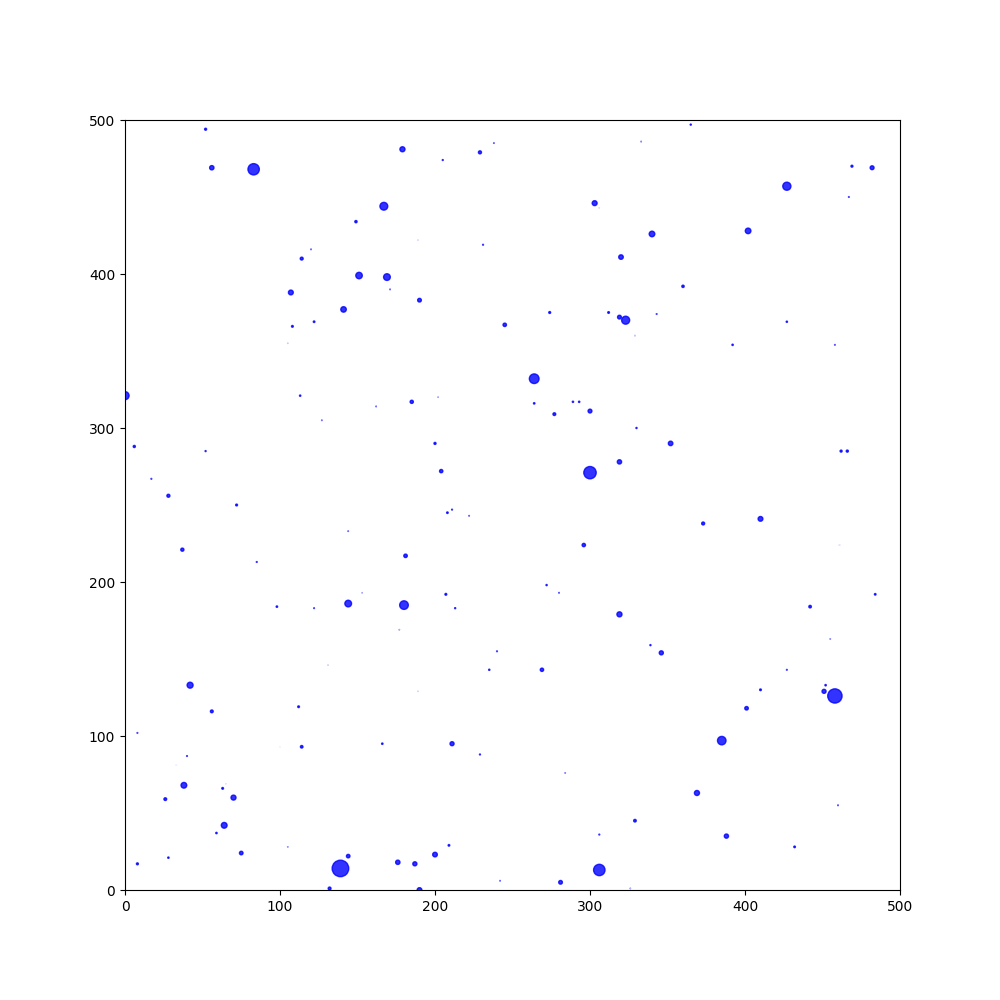
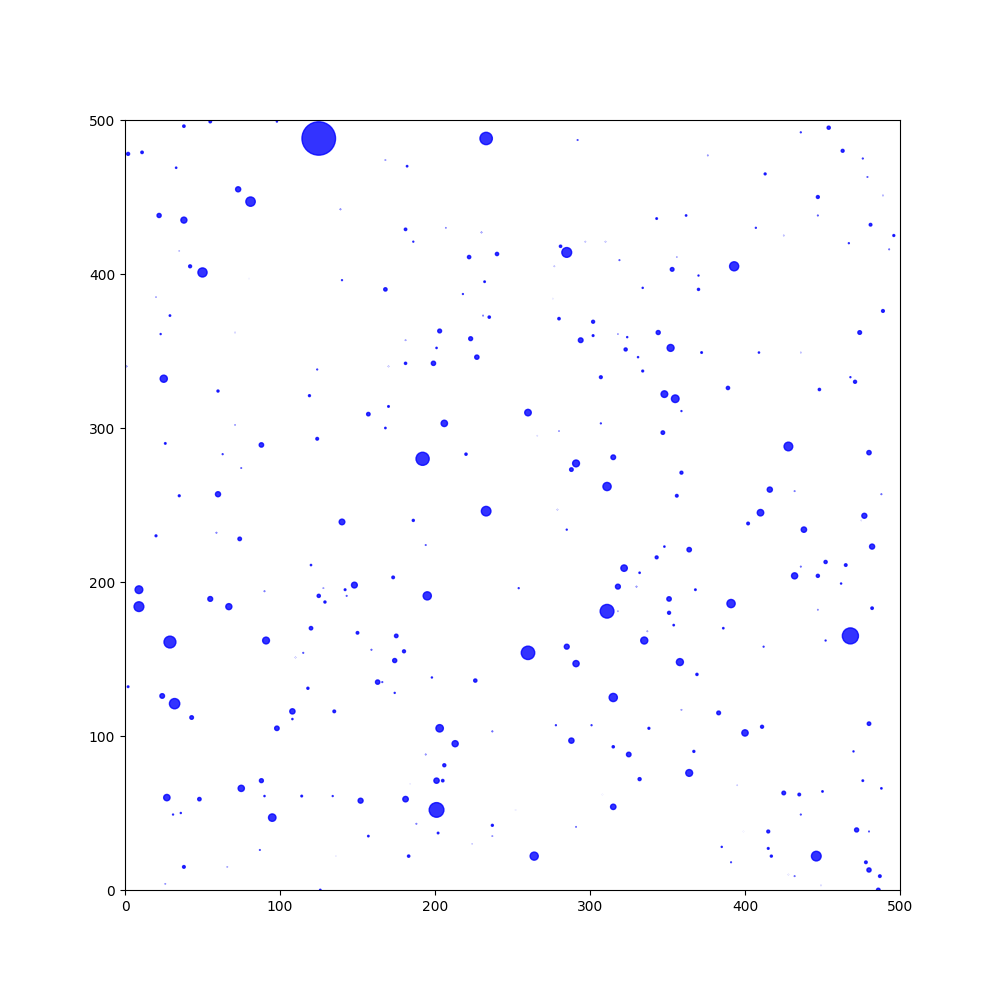
kd tree WIP...

diff --git a/kdNoduleField.py b/kdNoduleField.py
@@ -1,0 +1,74 @@
+import numpy as np
+from scipy.spatial import cKDTree
+from Nodule import *
+
+
+class NoduleField:
+    def __init__(self, num_nodules=10, x_length=500, y_length=500, z_length=200, lattice_scale=1, distance_epsilon=0.1):
+        self.x_length = x_length
+        self.y_length = y_length
+        self.z_length = z_length
+        self.lattice_scale = lattice_scale
+        self.distance_epsilon = distance_epsilon
+        self.num_nodes = num_nodules
+        self.nodules = []
+        self.tree = None
+        self.removable_nodules = []
+
+        for _ in range(num_nodules):
+            position = np.random.randint(0, (x_length, y_length, z_length))
+            radius = np.abs(np.random.exponential(1))
+            nodule = Nodule(dimensions=2, growth_rate=1.00001)
+            nodule._update_position(*position)
+            nodule._update_radius(radius)
+            self.nodules.append(nodule)
+
+        self.tree = cKDTree(
+            np.array([nodule.position_vector for nodule in self.nodules]))
+
+    def _resolve_collision(self, nodule1, nodule2):
+        # combine nodules into one by updating its position and radius
+        combined_radius = (nodule1.radius ** 3 +
+                           nodule2.radius ** 3) ** (1 / 3)
+        combined_position = (nodule1.position_vector +
+                             nodule2.position_vector) / 2
+        nodule1._update_position(
+            combined_position[0], combined_position[1], combined_position[2])
+        nodule1._update_radius(combined_radius)
+
+        # remove the absorbed nodule from the list of nodules
+        self._remove_nodules(nodule2, flush=False)
+
+    def _remove_nodules(self, nodule, flush=False):
+        if not flush:
+            self.removable_nodules.append(nodule)
+        if flush:
+            print(f"Removing {len(self.removable_nodules)} nodules")
+            for n in self.removable_nodules:
+                self.nodules.remove(n)
+            self.tree = cKDTree(
+                np.array([nodule.position_vector for nodule in self.nodules]))
+            self.removable_nodules = []
+            
+    def absorb_collisions(self):
+        nodules_copy = self.nodules.copy()
+        for i in range(len(nodules_copy)):
+            nodule1 = nodules_copy[i]
+            # use the KD tree to find nearby nodules
+            nearby_indices = self.tree.query_ball_point(
+                nodule1.position_vector, nodule1.radius + self.distance_epsilon)
+            for j in nearby_indices:
+                self._resolve_collision(nodule1, self.nodules[j])
+
+        self._remove_nodules(self.removable_nodules, flush=True)
+
+    def _timestep(self):
+        for nodule in self.nodules:
+            nodule._timestep()
+
+        # Now, perform the collision detection and resolution
+        self.absorb_collisions()
+
+    def simulate(self, num_timesteps):
+        for _ in range(num_timesteps):
+            self._timestep()

diff --git a/nodule_file.py b/nodule_file.py
@@ -1,14 +1,5 @@
-# Here we will define the "nodule" class
-# which will be used to store the information
-# about the nodules in the set of cancer cells.
-
-import cProfile
-import numpy as np
-from scipy.spatial import KDTree
 from NoduleField import NoduleField
-# from numba import jit
-from utils import make_histogram, make_nodule_plot, delete_files, squared_distance
-from math import sqrt, pow
+from utils import make_histogram, make_nodule_plot, delete_files
 
 
 X_LENGTH = 500
@@ -28,7 +19,7 @@ def main():
 
     # first, we must generate a field of objects,
     # by randomly assigning each object a position and radius
-    NUM_NODULES = 150
+    NUM_NODULES = 300
 
     nodule_field = NoduleField(num_nodules=NUM_NODULES,
                                x_length=X_LENGTH,
@@ -39,15 +30,15 @@ def main():
 
     # Now we need to iterate through the nodules,
     # and check for collisions.
-    for t in range(100):
+    for t in range(50):
         nodule_field.simulate(1)
 
         print(len(nodule_field.nodules))
 
         # if t % 10 == 0:
         make_nodule_plot(nodule_field.nodules, t, X_LENGTH, Y_LENGTH)
-        # make_histogram(nodule_field.nodules, save_num=t, scale=(
-        #     nodules[0].growth_rate)**t)
+        make_histogram(nodule_field.nodules, save_num=t, scale=(
+            nodule_field.nodules[0].growth_rate)**t)
 
         if len(nodule_field.nodules) <= 1:
             break

diff --git a/Nodule.py b/Nodule.py
@@ -1,14 +1,18 @@
-import numpy as np
-X_LENGTH = 500
-Y_LENGTH = 500
-Z_LENGTH = 200
+# Here we will define the "nodule" class
+# which will be used to store the information
+# about the nodules in the set of cancer cells.
 
-LATTICE_SCALE = 1
-DISTANCE_EPSILON = 0.1
+
+import numpy as np
 
 
 class Nodule:
-    def __init__(self, dimensions: int = 2, growth_rate=1):
+    def __init__(self, dimensions: int = 2, growth_rate=1, x_length=500, y_length=500, z_length=200, lattice_scale=1):
+        self.x_length = x_length
+        self.y_length = y_length
+        self.z_length = z_length
+        self.lattice_scale = lattice_scale
+
         self.x = None
         self.y = None
         self.z = None
@@ -46,16 +50,16 @@ class Nodule:
         else:
             dz = np.random.randint(-1, 2)
 
-        self.x += dx / LATTICE_SCALE
-        self.y += dy / LATTICE_SCALE
-        self.z += dz / LATTICE_SCALE
+        self.x += dx / self.lattice_scale
+        self.y += dy / self.lattice_scale
+        self.z += dz / self.lattice_scale
 
         # Need to impose periodic boundary conditions
         # on the position vector.
 
-        self.x = self.x % X_LENGTH
-        self.y = self.y % Y_LENGTH
-        self.z = self.z % Z_LENGTH
+        self.x = self.x % self.x_length
+        self.y = self.y % self.y_length
+        self.z = self.z % self.z_length
 
         self._grow()
         return
